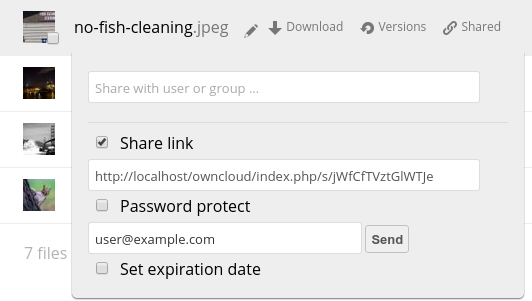
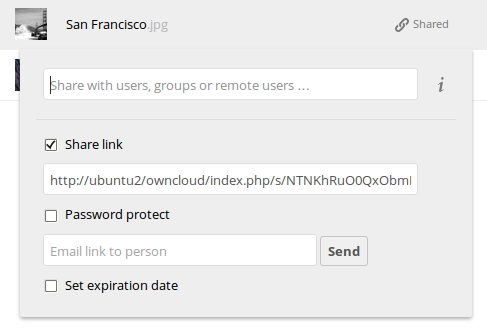
update federated cloud sharing for 8.1

diff --git a/admin_manual/configuration_files/federated_cloud_sharing_configuration.rst b/admin_manual/configuration_files/federated_cloud_sharing_configuration.rst
@@ -8,9 +8,15 @@ file shares between ownCloud servers, in effect creating a cloud of ownClouds.
 You can automatically send an email notification when you create the share, add 
 password protection, allow users to upload files, and set an expiration date.
 
+Federated cloud sharing now works a little differently than in ownCloud 8.0. 
+Its configuration is now incorporated into the Sharing section on your ownCloud 
+admin page, and you may share directly with users on other ownCloud servers 
+without being required to send an email notification.
+
 Follow these steps to create a new federated cloud share:
 
-1. Go to the Admin page and scroll to the Federated Cloud Sharing section.
+1. Go to your ownCloud Admin page and scroll to the Federated Cloud Sharing 
+section of the Sharing section.
 
 .. figure:: ../images/remote_shares.png
    
@@ -21,18 +27,71 @@ servers.`` Leaving the checkboxes blank disables federated cloud sharing.
 3. In the Sharing section, check ``Allow users to share via link`` and ``Allow 
 users to send mail notification for shared files``.
 
-4. Now your and your users can go to your Files page to create a new federated 
-cloud share. Hover your cursor over the file or directory 
-you want to share to expose the sharing options. Check the ``Share 
-Link`` checkbox to create the share, and to expose all of your sharing options.
+4. Now you and your users can go to your Files pages to create a new federated 
+cloud share. Click the Share icon on the file or directory you want to share to 
+expose your first sharing option. 
 
-.. figure:: ../images/create_public_share.png
+.. figure:: ../images/create_public_share-1.png
+
+This dialog allows you to create local shares with users and groups on your 
+local ownCloud server, and also to create federated cloud shares with users on 
+remote ownCloud servers by typing a link to the remote server in the form of 
+``<user>@<link-to-owncloud>``. In this screenshot the remote ownCloud server is 
+on the local network, so the URL form is ``user@hostname/owncloud``, or 
+``layla@remote-server/owncloud`` in the example. The URL you type is echoed by 
+the form, and labeled as ``(remote)``.
+
+.. figure:: ../images/create_public_share-2.png
+
+Press the return key, and then wait for the link to be established. You'll see a 
+status message while it is working.
+
+.. figure:: ../images/create_public_share-3.png
+
+When the link has been successfully created you'll see a confirmation.
+
+.. figure:: ../images/create_public_share-4.png
+
+You can return to the share dialog any time to see a list of everyone you have 
+shared with, and federated cloud shares are labeled as ``(remote)``.
+
+.. figure:: ../images/create_public_share-5.png
+
+Click the trash can icon to disconnect the share.
+
+Creating Federated Cloud Shares via Email
+-----------------------------------------
+
+Check the ``Share Link`` checkbox to expose more sharing options (which are 
+described more fully in :doc:`file_sharing_configuration`). You may create a 
+federated cloud share by allowing ownCloud to create the link for you, and 
+then email it to the person you want to create the share with.
+
+.. figure:: ../images/create_public_share-6.png
    
-Your new public share is labeled with a chain link. Share it by entering the 
-email address of the person you want to share it with. You may optionally set a 
-password  and expiration date on it. If you do not protect it with a password, 
-it is visible to anyone who has the URL. Un-check the ``Share Link`` checkbox to 
-disable the share.
+You may optionally set a password and expiration date on it. When your recipient 
+receives your email they must click the link, or copy it to a Web 
+browser. They will see a page displaying a thumbnail of the file, with a button 
+to **Add to your ownCloud**.
+
+.. figure:: ../images/create_public_share-8.png
+
+Your recipient should click the **Add to your ownCloud** button. On the next 
+screen your recipient needs to enter the URL to their ownCloud 
+server, and then press the return key.
+
+.. figure:: ../images/create_public_share-9.png
+
+Your recipient has to take one more step, and that is to confirm creating the 
+federated cloud share link by clicking the **Add remote share** button.
+
+.. figure:: ../images/create_public_share-10.png
+
+Un-check the ``Share Link`` checkbox to disable any federated cloud share 
+created this way.
+
+Configuration Tips
+------------------
 
 The Sharing section on your Admin page allows you to control how your users 
 manage federated cloud shares:
@@ -41,13 +100,6 @@ manage federated cloud shares:
 * Check ``Set default expiration date`` to require an expiration date on link 
   shares.
 * Check ``Allow public uploads`` to allow two-way file sharing.
-
-Users on other ownCloud servers can mount this share and use it just like any 
-ownCloud share. See "Using Federated Cloud Sharing" in the Users Manual to learn 
-how to connect to a remote public share.
-
-Notes
------
 
 Your Apache Web server must have ``mod_rewrite`` enabled, and you must have 
 ``trusted_domains`` configured in ``config.php``. Consider also enabling SSL to 
